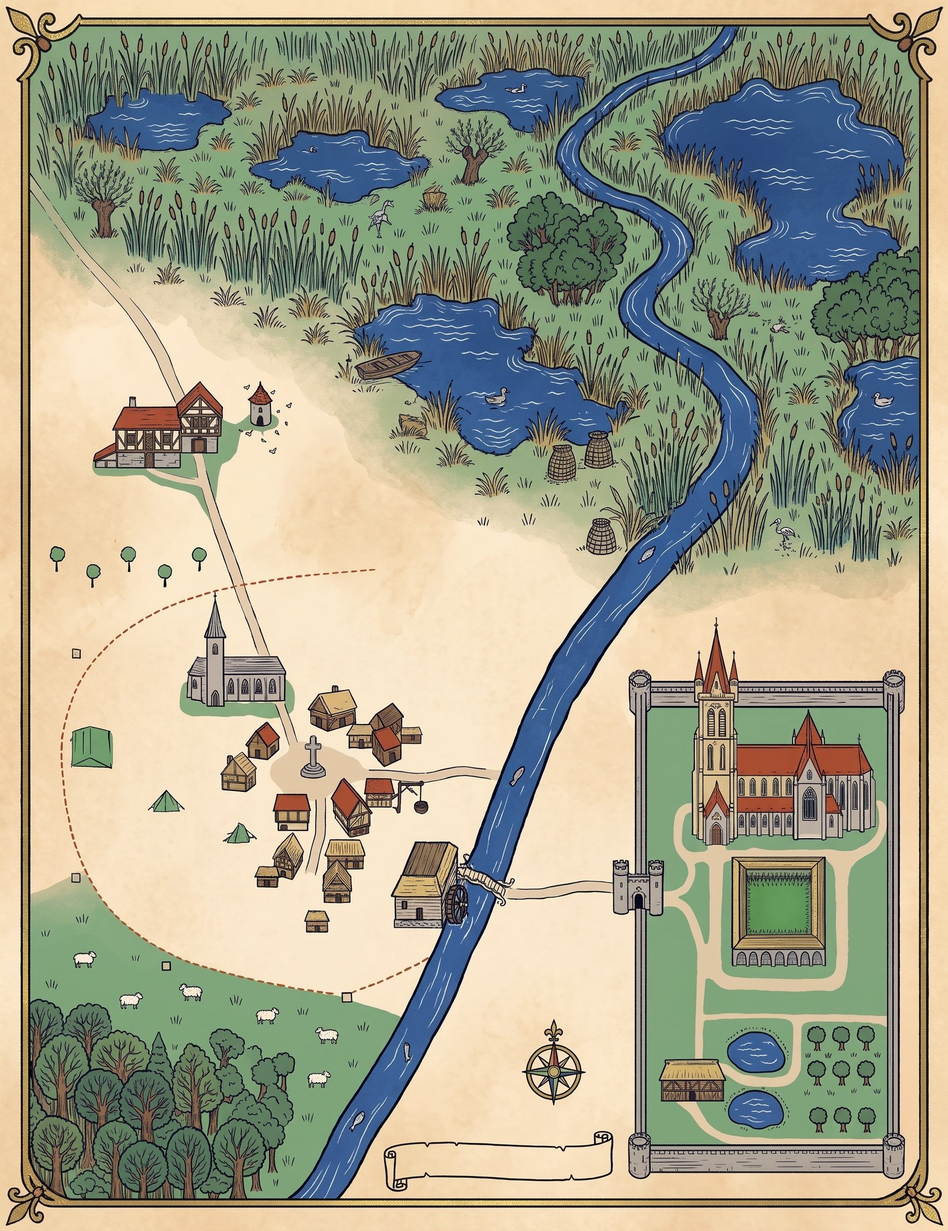
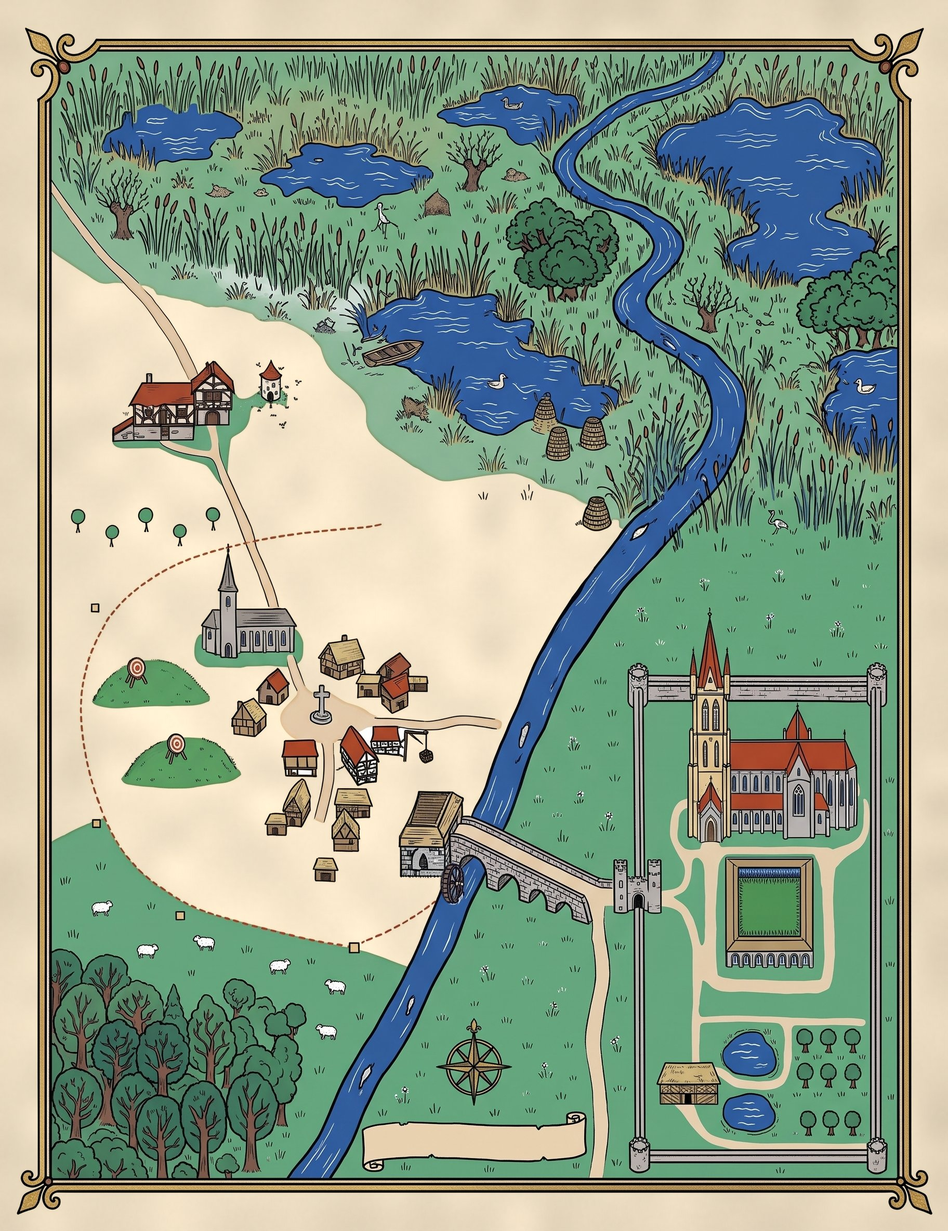
Tithe & Tattle: new fen map with the stone bridge (v20)

diff --git a/tithe-and-tattle/js/art.js b/tithe-and-tattle/js/art.js
@@ -17,7 +17,7 @@
  *             Any slot 'portrait-<castId>' falls back to this when the manifest has no PNG for it.
  *   map       estate map of Mardle and the abbey, portrait, aspect 1 : ART.MAP_ASPECT (1.3).
  *             ART.MAP_PLACES = [{id, label, fx, fy, re}] marker positions in fractions; a PNG map must match them.
- *             The fractions are measured on the painted art/map.jpg (the fen map, manifest v2); the procedural map shares them only roughly.
+ *             The fractions are measured on the painted art/map.jpg (the fen map with the stone bridge, manifest v3); the procedural map shares them only roughly.
  */
 (function () {
   'use strict';
@@ -315,17 +315,17 @@
     ['orchard', 'the orchard, ponds and barn', 0.86, 0.87, /orchard|pear|fishpond|barn|bee|skep/i],
     ['hall', 'Mardle Hall', 0.19, 0.342, /hall|manor|dovecote|hallmote/i],
     ['lynn', 'the Lynn road', 0.08, 0.19, /lynn/i],
-    ['church', 'St Mary’s', 0.245, 0.551, /st mary|parish church|churchyard/i],
-    ['bridge', 'the Long Bridge', 0.519, 0.705, /bridge|ferry|toll/i],
-    ['mill', 'Hob’s mill and weir', 0.43, 0.72, /mill|weir/i],
-    ['swan', 'the Swan', 0.405, 0.645, /swan|alehouse/i],
-    ['butts', 'the Butts', 0.094, 0.606, /butts/i],
-    ['meadow', 'the water meadow', 0.62, 0.52, /meadow|hay/i],
+    ['church', 'St Mary’s', 0.262, 0.515, /st mary|parish church|churchyard/i],
+    ['bridge', 'the Long Bridge', 0.555, 0.712, /bridge|ferry|toll/i],
+    ['mill', 'Hob’s mill and weir', 0.45, 0.68, /mill|weir/i],
+    ['swan', 'the Swan', 0.41, 0.6, /swan|alehouse/i],
+    ['butts', 'the Butts', 0.16, 0.556, /butts/i],
+    ['meadow', 'the water meadow', 0.69, 0.47, /meadow|hay/i],
     ['fen', 'the fen', 0.38, 0.22, /fen|eel|reed|trap/i],
     ['common', 'the common', 0.19, 0.81, /common|pannage/i],
     ['wood', 'Mardle Wood', 0.125, 0.895, /wood/i],
     ['bounds', 'the parish bounds', 0.081, 0.712, /bound|rogation/i],
-    ['square', 'the market square', 0.328, 0.611, /market|square|cross|tolley/i],
+    ['square', 'the market square', 0.338, 0.585, /market|square|cross|tolley/i],
     ['abbey', 'the Abbey of St Alnoth', 0.86, 0.63, /abbey|alnoth/i]
   ];
   var RIVER = [[0.74, 0.14], [0.68, 0.22], [0.6, 0.3], [0.53, 0.39], [0.5, 0.47], [0.49, 0.56], [0.46, 0.65], [0.42, 0.75], [0.36, 0.84], [0.3, 0.93], [0.27, 1.01]];
@@ -671,7 +671,7 @@
     load: function (base) {
       base = base || 'art/';
       if (typeof fetch === 'undefined') return Promise.resolve();
-      return fetch(base + 'manifest.json?v=19', { cache: 'no-cache' }).then(function (r) { return r.ok ? r.json() : {}; }).then(function (m) {
+      return fetch(base + 'manifest.json?v=20', { cache: 'no-cache' }).then(function (r) { return r.ok ? r.json() : {}; }).then(function (m) {
         return Promise.all(Object.keys(m || {}).map(function (slot) {
           var e = typeof m[slot] === 'string' ? { file: m[slot] } : (m[slot] || {});
           if (!e.file) return null;

diff --git a/tithe-and-tattle/index.html b/tithe-and-tattle/index.html
@@ -9,7 +9,7 @@
 <link rel="preconnect" href="https://fonts.googleapis.com">
 <link rel="preconnect" href="https://fonts.gstatic.com" crossorigin>
 <link rel="stylesheet" href="https://fonts.googleapis.com/css2?family=EB+Garamond:ital,wght@0,400;0,500;0,600;1,400&family=IM+Fell+English+SC&display=swap">
-<link rel="stylesheet" href="css/style.css?v=19">
+<link rel="stylesheet" href="css/style.css?v=20">
 </head>
 <body>
 
@@ -70,24 +70,24 @@
   </div>
 </main>
 
-<script src="js/logic.js?v=19"></script>
-<script src="js/daybook.js?v=19"></script>
-<script src="js/story/sample.js?v=19"></script>
-<script src="js/story/ch1.js?v=19"></script>
-<script src="js/story/ch2.js?v=19"></script>
-<script src="js/story/ch3.js?v=19"></script>
-<script src="js/story/ch4.js?v=19"></script>
-<script src="js/story/ch5.js?v=19"></script>
-<script src="js/story/ch6.js?v=19"></script>
-<script src="js/save.js?v=19"></script>
-<script src="js/art.js?v=19"></script>
-<script src="js/audio.js?v=19"></script>
-<script src="js/music.js?v=19"></script>
-<script src="js/grid.js?v=19"></script>
-<script src="js/play.js?v=19"></script>
-<script src="js/screens.js?v=19"></script>
-<script src="js/cast.js?v=19"></script>
-<script src="js/pages.js?v=19"></script>
-<script src="js/main.js?v=19"></script>
+<script src="js/logic.js?v=20"></script>
+<script src="js/daybook.js?v=20"></script>
+<script src="js/story/sample.js?v=20"></script>
+<script src="js/story/ch1.js?v=20"></script>
+<script src="js/story/ch2.js?v=20"></script>
+<script src="js/story/ch3.js?v=20"></script>
+<script src="js/story/ch4.js?v=20"></script>
+<script src="js/story/ch5.js?v=20"></script>
+<script src="js/story/ch6.js?v=20"></script>
+<script src="js/save.js?v=20"></script>
+<script src="js/art.js?v=20"></script>
+<script src="js/audio.js?v=20"></script>
+<script src="js/music.js?v=20"></script>
+<script src="js/grid.js?v=20"></script>
+<script src="js/play.js?v=20"></script>
+<script src="js/screens.js?v=20"></script>
+<script src="js/cast.js?v=20"></script>
+<script src="js/pages.js?v=20"></script>
+<script src="js/main.js?v=20"></script>
 </body>
 </html>
